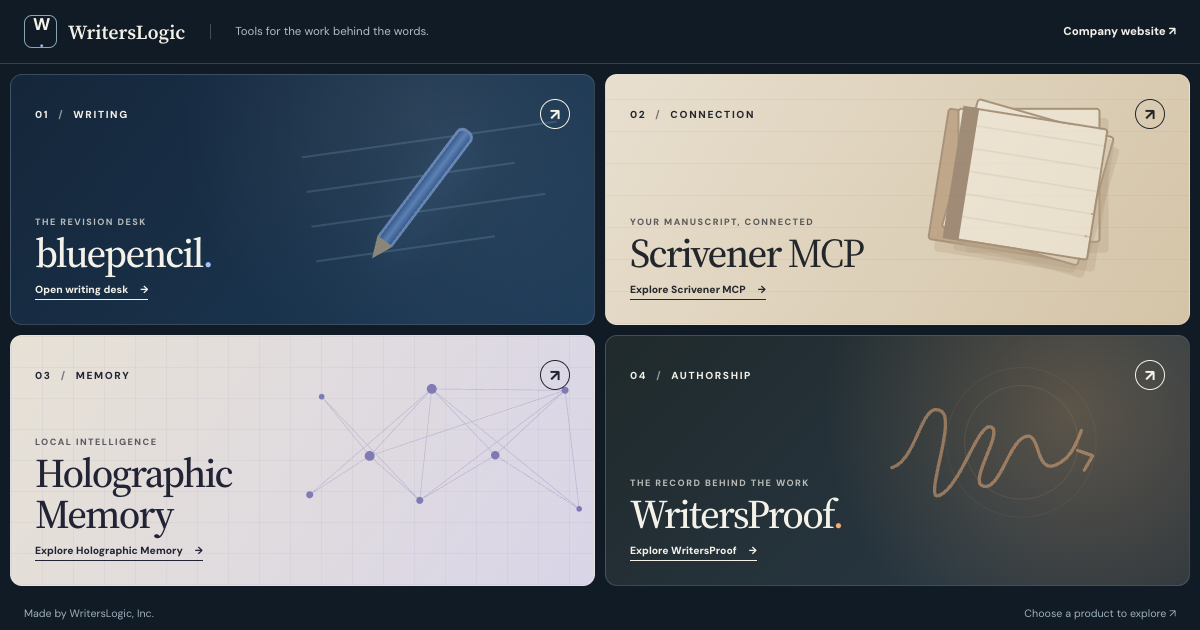
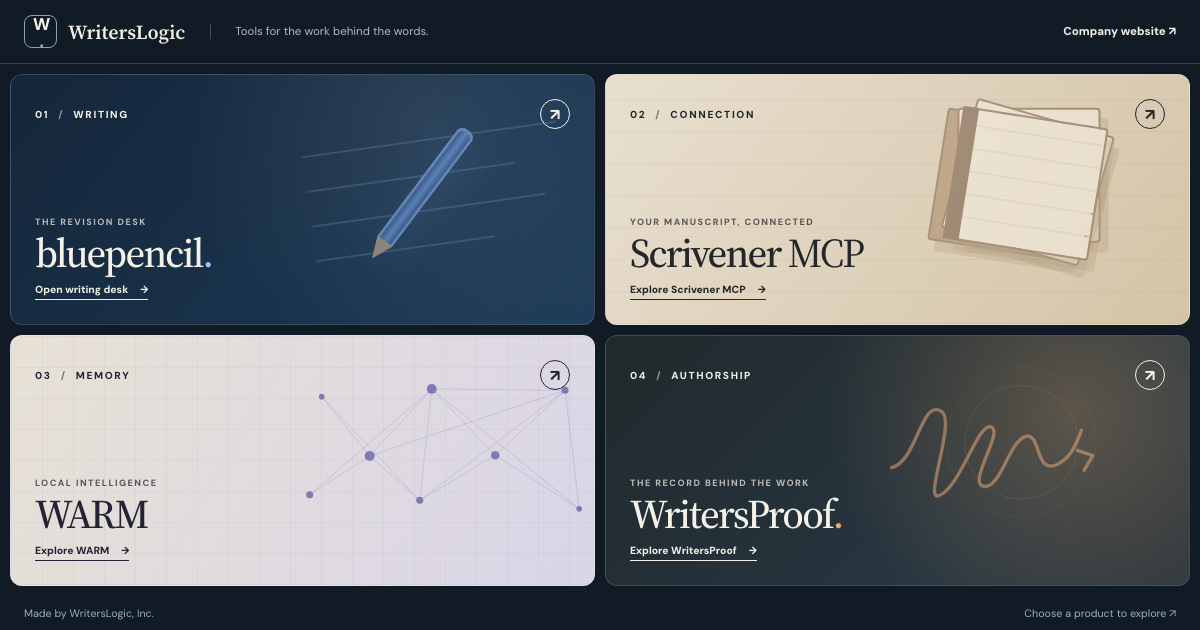
fix: rename the Holographic Memory tile to WARM and link writerslogic.com/warm

Changed region(s): [[0.0308, 0.6937, 0.185, 0.9048]]

diff --git a/site/index.html b/site/index.html
@@ -4,11 +4,11 @@
   <meta charset="utf-8">
   <meta name="viewport" content="width=device-width, initial-scale=1, viewport-fit=cover">
   <meta name="theme-color" content="#111b26">
-  <meta name="description" content="Explore the WritersLogic family: bluepencil, Scrivener MCP, Holographic Memory, and WritersProof.">
+  <meta name="description" content="Explore the WritersLogic family: bluepencil, Scrivener MCP, WARM, and WritersProof.">
   <meta property="og:type" content="website">
   <meta property="og:site_name" content="WritersLogic">
   <meta property="og:title" content="WritersLogic — tools for ideas, writing, and proof">
-  <meta property="og:description" content="Four tools for the work behind the words. Explore bluepencil, Scrivener MCP, Holographic Memory, and WritersProof.">
+  <meta property="og:description" content="Four tools for the work behind the words. Explore bluepencil, Scrivener MCP, WARM, and WritersProof.">
   <meta property="og:url" content="https://writerslogic.github.io/">
   <meta property="og:image" content="https://writerslogic.github.io/og.png">
   <meta name="twitter:card" content="summary_large_image">
@@ -41,10 +41,10 @@
         <span class="tile-copy"><span class="tile-kicker">YOUR MANUSCRIPT, CONNECTED</span><span class="tile-title">Scrivener <i>MCP</i></span><span class="tile-description">Bring your writing project into the AI tools you use.</span><span class="tile-visit">Explore Scrivener MCP <span aria-hidden="true">→</span></span></span>
       </a>
 
-      <a class="tile tile-memory" href="https://holographic-memory.com/" aria-label="Holographic Memory: local memory for AI agents">
+      <a class="tile tile-memory" href="https://writerslogic.com/warm/" aria-label="WARM: local memory for AI agents">
         <span class="tile-top"><span>03 <span class="slash">/</span> MEMORY</span><span class="tile-arrow" aria-hidden="true">↗</span></span>
         <svg class="tile-art memory-art" viewBox="0 0 440 300" fill="none" aria-hidden="true"><path d="M28 225 113 170 184 233 291 169 410 245M45 86 113 170 201 75 291 169 390 77M184 233 201 75 410 245M28 225 201 75 390 77 410 245M45 86 184 233 390 77M113 170 390 77" stroke="currentColor" stroke-width="1" opacity=".35"/><g fill="currentColor"><circle cx="28" cy="225" r="5"/><circle cx="45" cy="86" r="4"/><circle cx="113" cy="170" r="7"/><circle cx="184" cy="233" r="5"/><circle cx="201" cy="75" r="7"/><circle cx="291" cy="169" r="6"/><circle cx="390" cy="77" r="5"/><circle cx="410" cy="245" r="4"/></g></svg>
-        <span class="tile-copy"><span class="tile-kicker">LOCAL INTELLIGENCE</span><span class="tile-title">Holographic<br>Memory</span><span class="tile-description">Private, provenance-aware memory for AI agents.</span><span class="tile-visit">Explore Holographic Memory <span aria-hidden="true">→</span></span></span>
+        <span class="tile-copy"><span class="tile-kicker">LOCAL INTELLIGENCE</span><span class="tile-title">WARM</span><span class="tile-description">Private, provenance-aware memory for AI agents.</span><span class="tile-visit">Explore WARM <span aria-hidden="true">→</span></span></span>
       </a>
 
       <a class="tile tile-proof" href="https://writersproof.com/" aria-label="WritersProof: prove how your writing was created">

diff --git a/README.md b/README.md
@@ -1,5 +1,5 @@
 # WritersLogic product hub
 
-The one-screen hub at [writerslogic.github.io](https://writerslogic.github.io/) links to bluepencil, Scrivener MCP, Holographic Memory, and WritersProof. Each tile is a normal link. A short local animation expands the selected tile before navigating; reduced-motion users navigate directly.
+The one-screen hub at [writerslogic.github.io](https://writerslogic.github.io/) links to bluepencil, Scrivener MCP, WARM, and WritersProof. Each tile is a normal link. A short local animation expands the selected tile before navigating; reduced-motion users navigate directly.
 
 The site is plain HTML, CSS, and JavaScript in `site/`. GitHub Pages publishes that directory on pushes to `main`.
